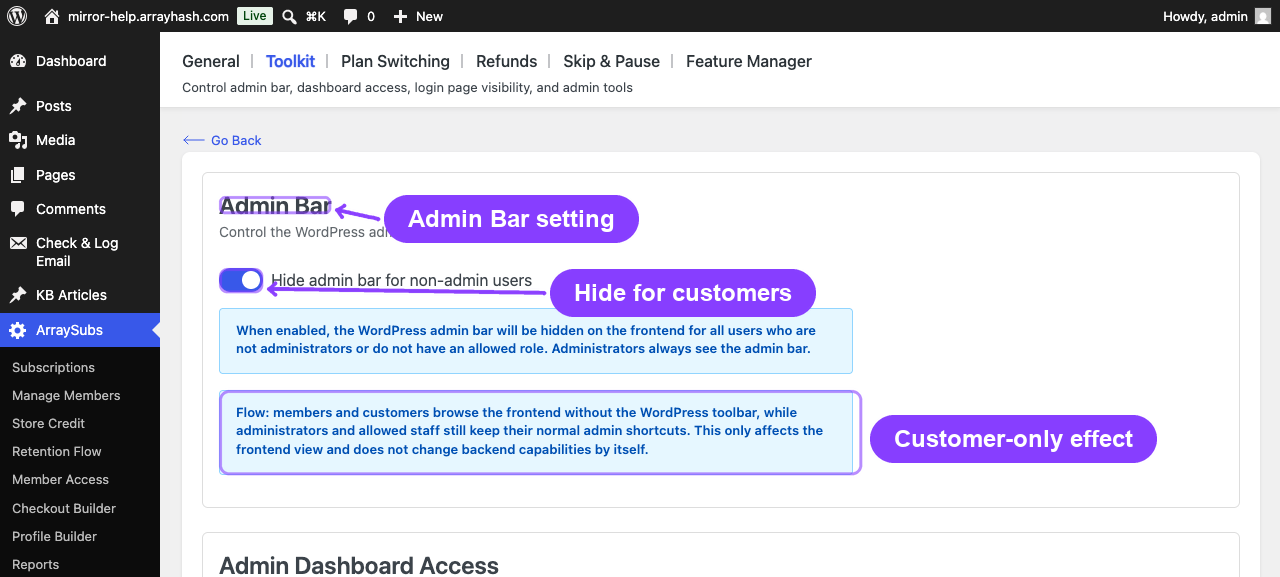
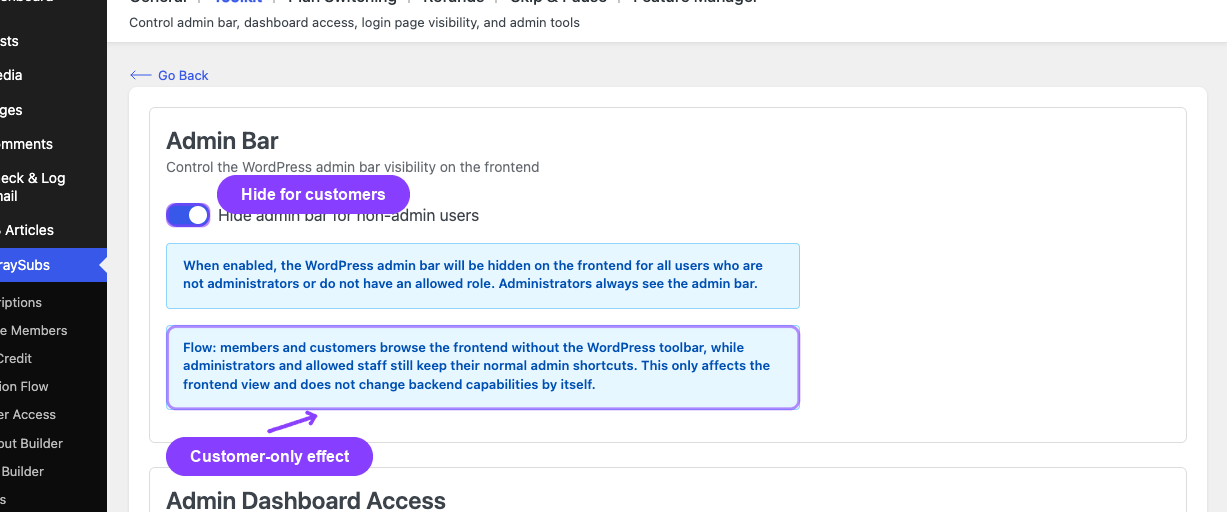
//

diff --git a/kanban/tasks/001-admin-bar-visibility-readme-md.md b/kanban/tasks/001-admin-bar-visibility-readme-md.md
@@ -4,11 +4,11 @@ title: admin-bar-visibility - README.md
 status: done
 priority: medium
 created: 2026-06-09T18:08:34.362619+06:00
-updated: 2026-06-23T17:27:04.842961+06:00
+updated: 2026-06-23T17:46:33.92293+06:00
 started: 2026-06-18T10:42:49.399898807+02:00
-completed: 2026-06-23T17:27:04.842961+06:00
+completed: 2026-06-23T17:46:33.92293+06:00
 claimed_by: hobbler-beswitch
-claimed_at: 2026-06-23T17:27:04.842961+06:00
+claimed_at: 2026-06-23T17:46:33.92293+06:00
 class: standard
 ---
 
@@ -38,3 +38,11 @@ Markers:
 - `arrow pointing to the black WordPress toolbar at the top, label 'Admin toolbar remains'`
 - `arrow pointing to the Howdy, admin menu item, label 'Administrator session'`
 - `arrow pointing to the Edit Page toolbar link, label 'Admin shortcuts'`
+
+
+
+Annotation rerun notes (2026-06-23):
+- Reprocessed all three Admin Bar Visibility screenshots as annotated variants with #873EFF, crop enabled, and steps=3.
+- Used only essential labels to avoid crowding: two labels per image.
+- Generated README.ASSETS/01-admin-bar-toolkit-setting-annotated.png, README.ASSETS/02-customer-frontend-toolbar-hidden-annotated.png, and README.ASSETS/03-admin-frontend-toolbar-visible-annotated.png.
+- Verification: all 6 labels resolved, 0 unresolved; visual review passed.